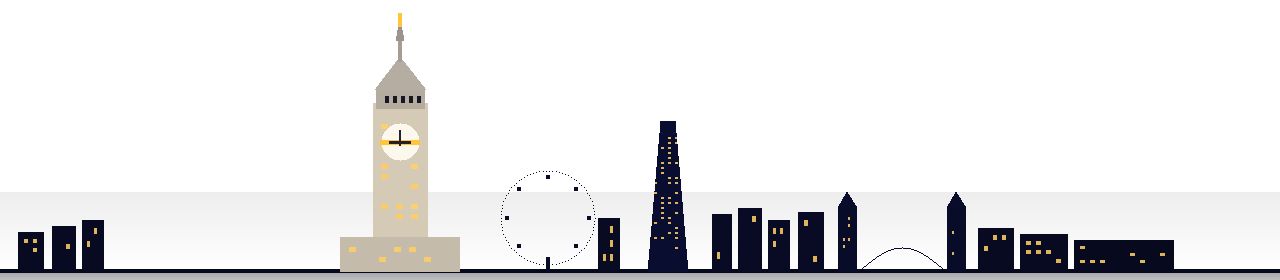
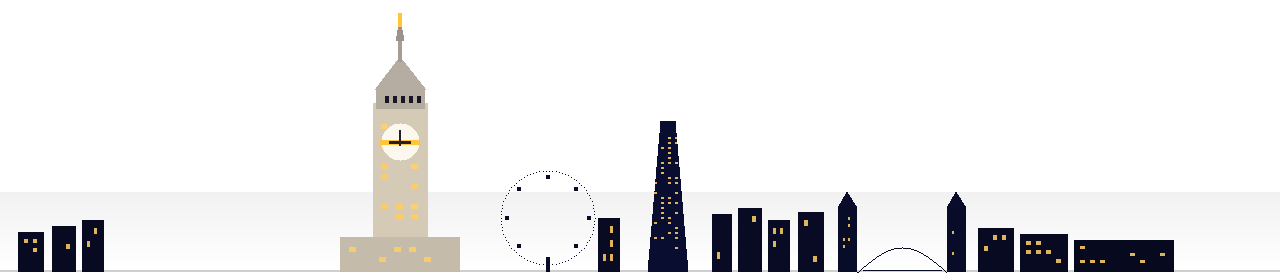
Deploy Stack Rush mobile PWA

Changed region(s): [[0.0, 0.9429, 1.0, 1.0]]

diff --git a/index.html b/index.html
@@ -619,7 +619,7 @@
       <div class="section-divider"></div>
       <p class="theme-label">City skyline <span id="cityUnlockHint"></span></p>
       <div class="theme-grid" id="cityGrid"></div>
-      <p class="theme-label" id="buildVer" style="margin-top:10px;opacity:.35;font-size:.62rem;text-align:center;">Build fb4e28c5</p>
+      <p class="theme-label" id="buildVer" style="margin-top:10px;opacity:.35;font-size:.62rem;text-align:center;">Build 612ff292</p>
       <button class="secondary" id="optionsBackBtn" style="width:100%;margin-top:10px;">Back</button>
     </div>
   </div>
@@ -710,7 +710,7 @@ const MUSIC_TRACKS = [
 
 const SFX_FILES = ['drop', 'land', 'perfect', 'great', 'good', 'slice', 'gameover'];
 const ASSETS_BASE = 'assets/';
-const ASSETS_VER = 'fb4e28c5';
+const ASSETS_VER = '612ff292';
 const BOARD_KEY = 'stackrush_weekly_board';
 const PLAYER_NAME_KEY = 'stackrush_player_name';
 const BOARD_MAX = 15;
@@ -2892,30 +2892,6 @@ class GameEngine {
     ctx.globalAlpha = 1;
   }
 
-  _drawSkylineWaterReflection(ctx, img, drawX, topY, tileW, tileH, footY, alpha) {
-    if (alpha <= 0.05) return;
-    ctx.save();
-    ctx.beginPath();
-    ctx.rect(0, footY, this.w, Math.min(40, tileH * 0.16));
-    ctx.clip();
-    ctx.globalAlpha = alpha * 0.14;
-    ctx.translate(0, footY * 2);
-    ctx.scale(1, -1);
-    ctx.drawImage(img, drawX, topY, tileW, tileH);
-    ctx.restore();
-  }
-
-  _drawSkylineAccentGlow(ctx, footY, accent, alpha, time) {
-    if (alpha <= 0.05) return;
-    const pulse = 0.88 + 0.12 * Math.sin(time * 0.55);
-    const g = ctx.createLinearGradient(0, footY - 48, 0, footY + 18);
-    g.addColorStop(0, accent + '00');
-    g.addColorStop(0.5, accent + Math.floor(alpha * pulse * 32).toString(16).padStart(2, '0'));
-    g.addColorStop(1, accent + '00');
-    ctx.fillStyle = g;
-    ctx.fillRect(0, footY - 48, this.w, 66);
-  }
-
   _drawCitySkyline(ctx, t) {
     const cosmic = this.cosmicBlend;
     const cityAlpha = Math.max(0, 0.92 - this.altitudeMeters / 55 - cosmic * 0.55);
@@ -2934,15 +2910,12 @@ class GameEngine {
       const topY = skylineFootY - tileH * groundNorm;
       const focus = getCity(this.cityId).skylineFocus ?? 0.5;
       const drawX = Math.min(0, Math.max(this.w - tileW, this.w * 0.5 - focus * img.width * scale));
-      const accent = getCity(this.cityId).accent || '#80d8ff';
 
       ctx.save();
       ctx.globalAlpha = vivid ? Math.min(1, cityAlpha * 1.08) : cityAlpha;
       if (vivid) ctx.filter = 'saturate(1.25) brightness(1.08)';
       ctx.drawImage(img, drawX, topY, tileW, tileH);
       ctx.restore();
-      this._drawSkylineWaterReflection(ctx, img, drawX, topY, tileW, tileH, skylineFootY, cityAlpha);
-      this._drawSkylineAccentGlow(ctx, skylineFootY, accent, cityAlpha, t);
       return;
     }
 
@@ -3007,7 +2980,9 @@ class GameEngine {
 
     this._drawMotes(ctx, rise, alt, cosmic, t);
     this._drawCloudLayers(ctx, rise, alt, cosmic, t);
-    this._drawHorizonGlow(ctx, this.worldToScreenY(this.groundY), alt, cosmic);
+    const cityVisible = Math.max(0, 0.92 - this.altitudeMeters / 55 - cosmic * 0.55) > 0.03;
+    const horizonY = cityVisible ? this._skylineFootScreenY() : this.worldToScreenY(this.groundY);
+    this._drawHorizonGlow(ctx, horizonY, alt, cosmic);
 
     if (cosmic > 0.08) {
       const starBright = cosmic * 0.7 + alt * 0.15;
@@ -4057,7 +4032,7 @@ if ('serviceWorker' in navigator) {
     location.reload();
   });
   window.addEventListener('load', () => {
-    navigator.serviceWorker.register('./sw.js?v=fb4e28c5').then((reg) => {
+    navigator.serviceWorker.register('./sw.js?v=612ff292').then((reg) => {
       reg.update();
       if (reg.waiting) reg.waiting.postMessage({ type: 'SKIP_WAITING' });
       reg.addEventListener('updatefound', () => {

diff --git a/sw.js b/sw.js
@@ -1,5 +1,5 @@
 /* Stack Rush service worker — generated by build_mobile.py */
-const CACHE = 'stackrush-fb4e28c5';
+const CACHE = 'stackrush-612ff292';
 const ASSETS = [
   "./manifest.webmanifest",
   "./icon.svg",
